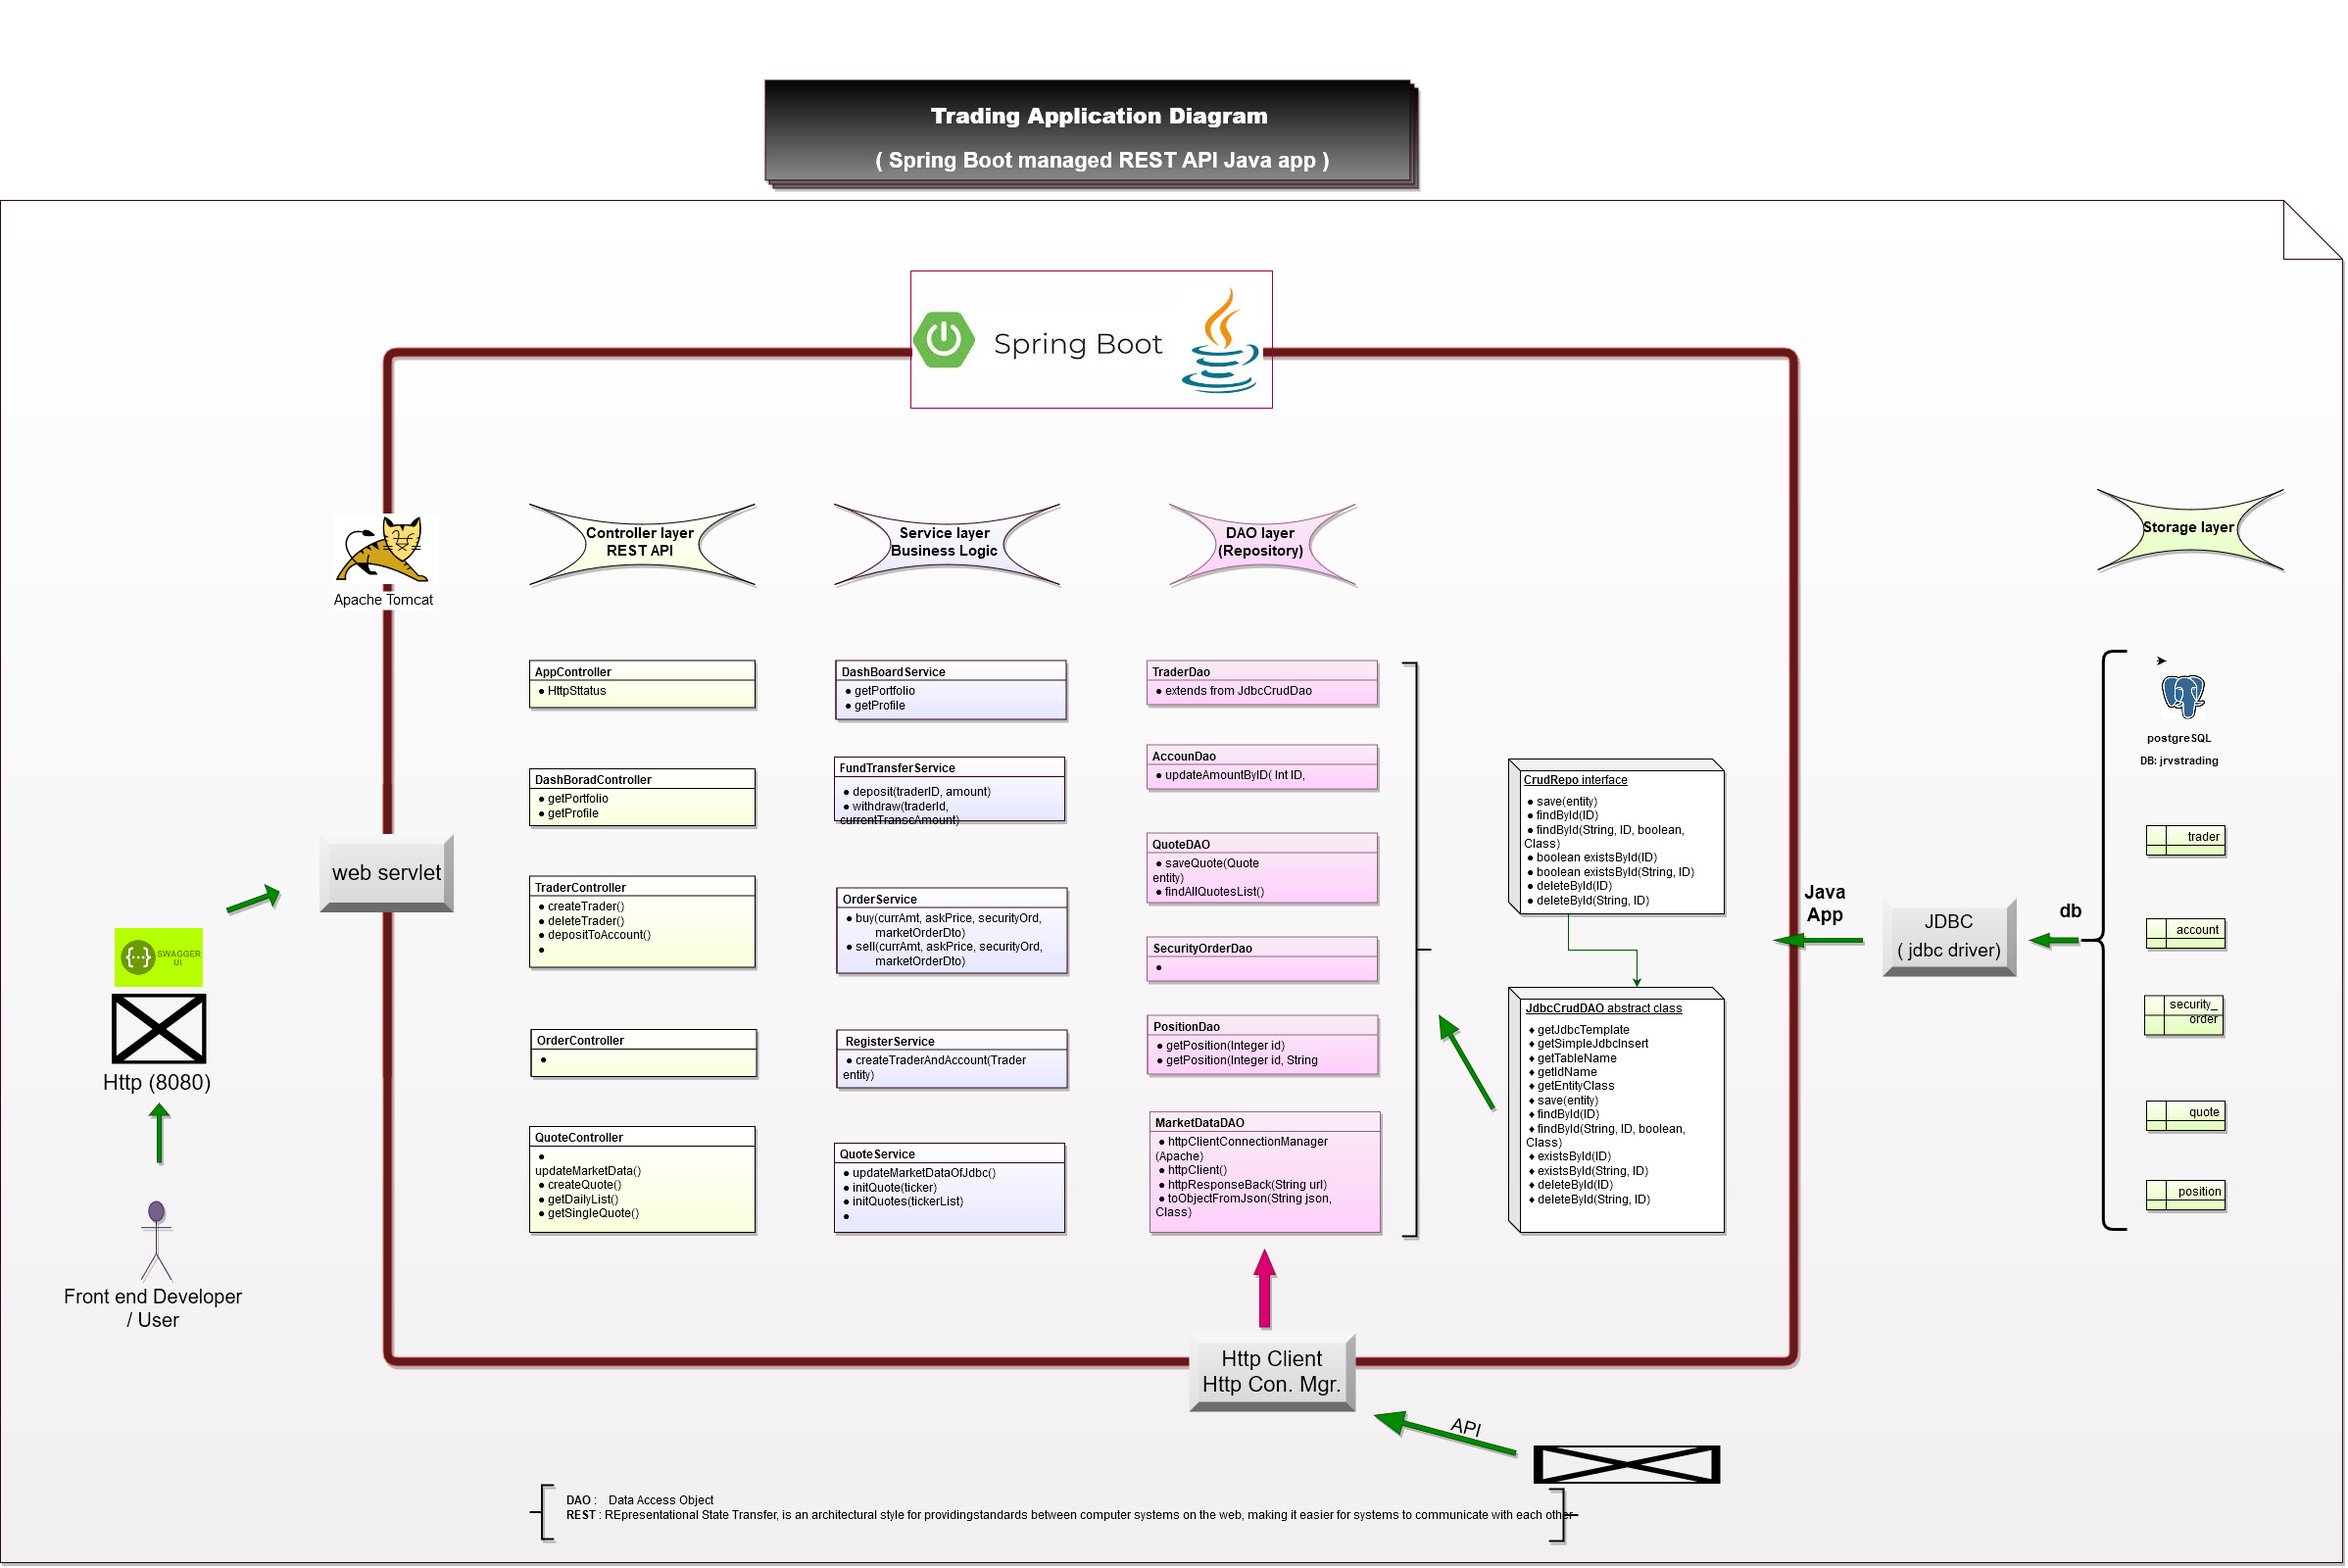
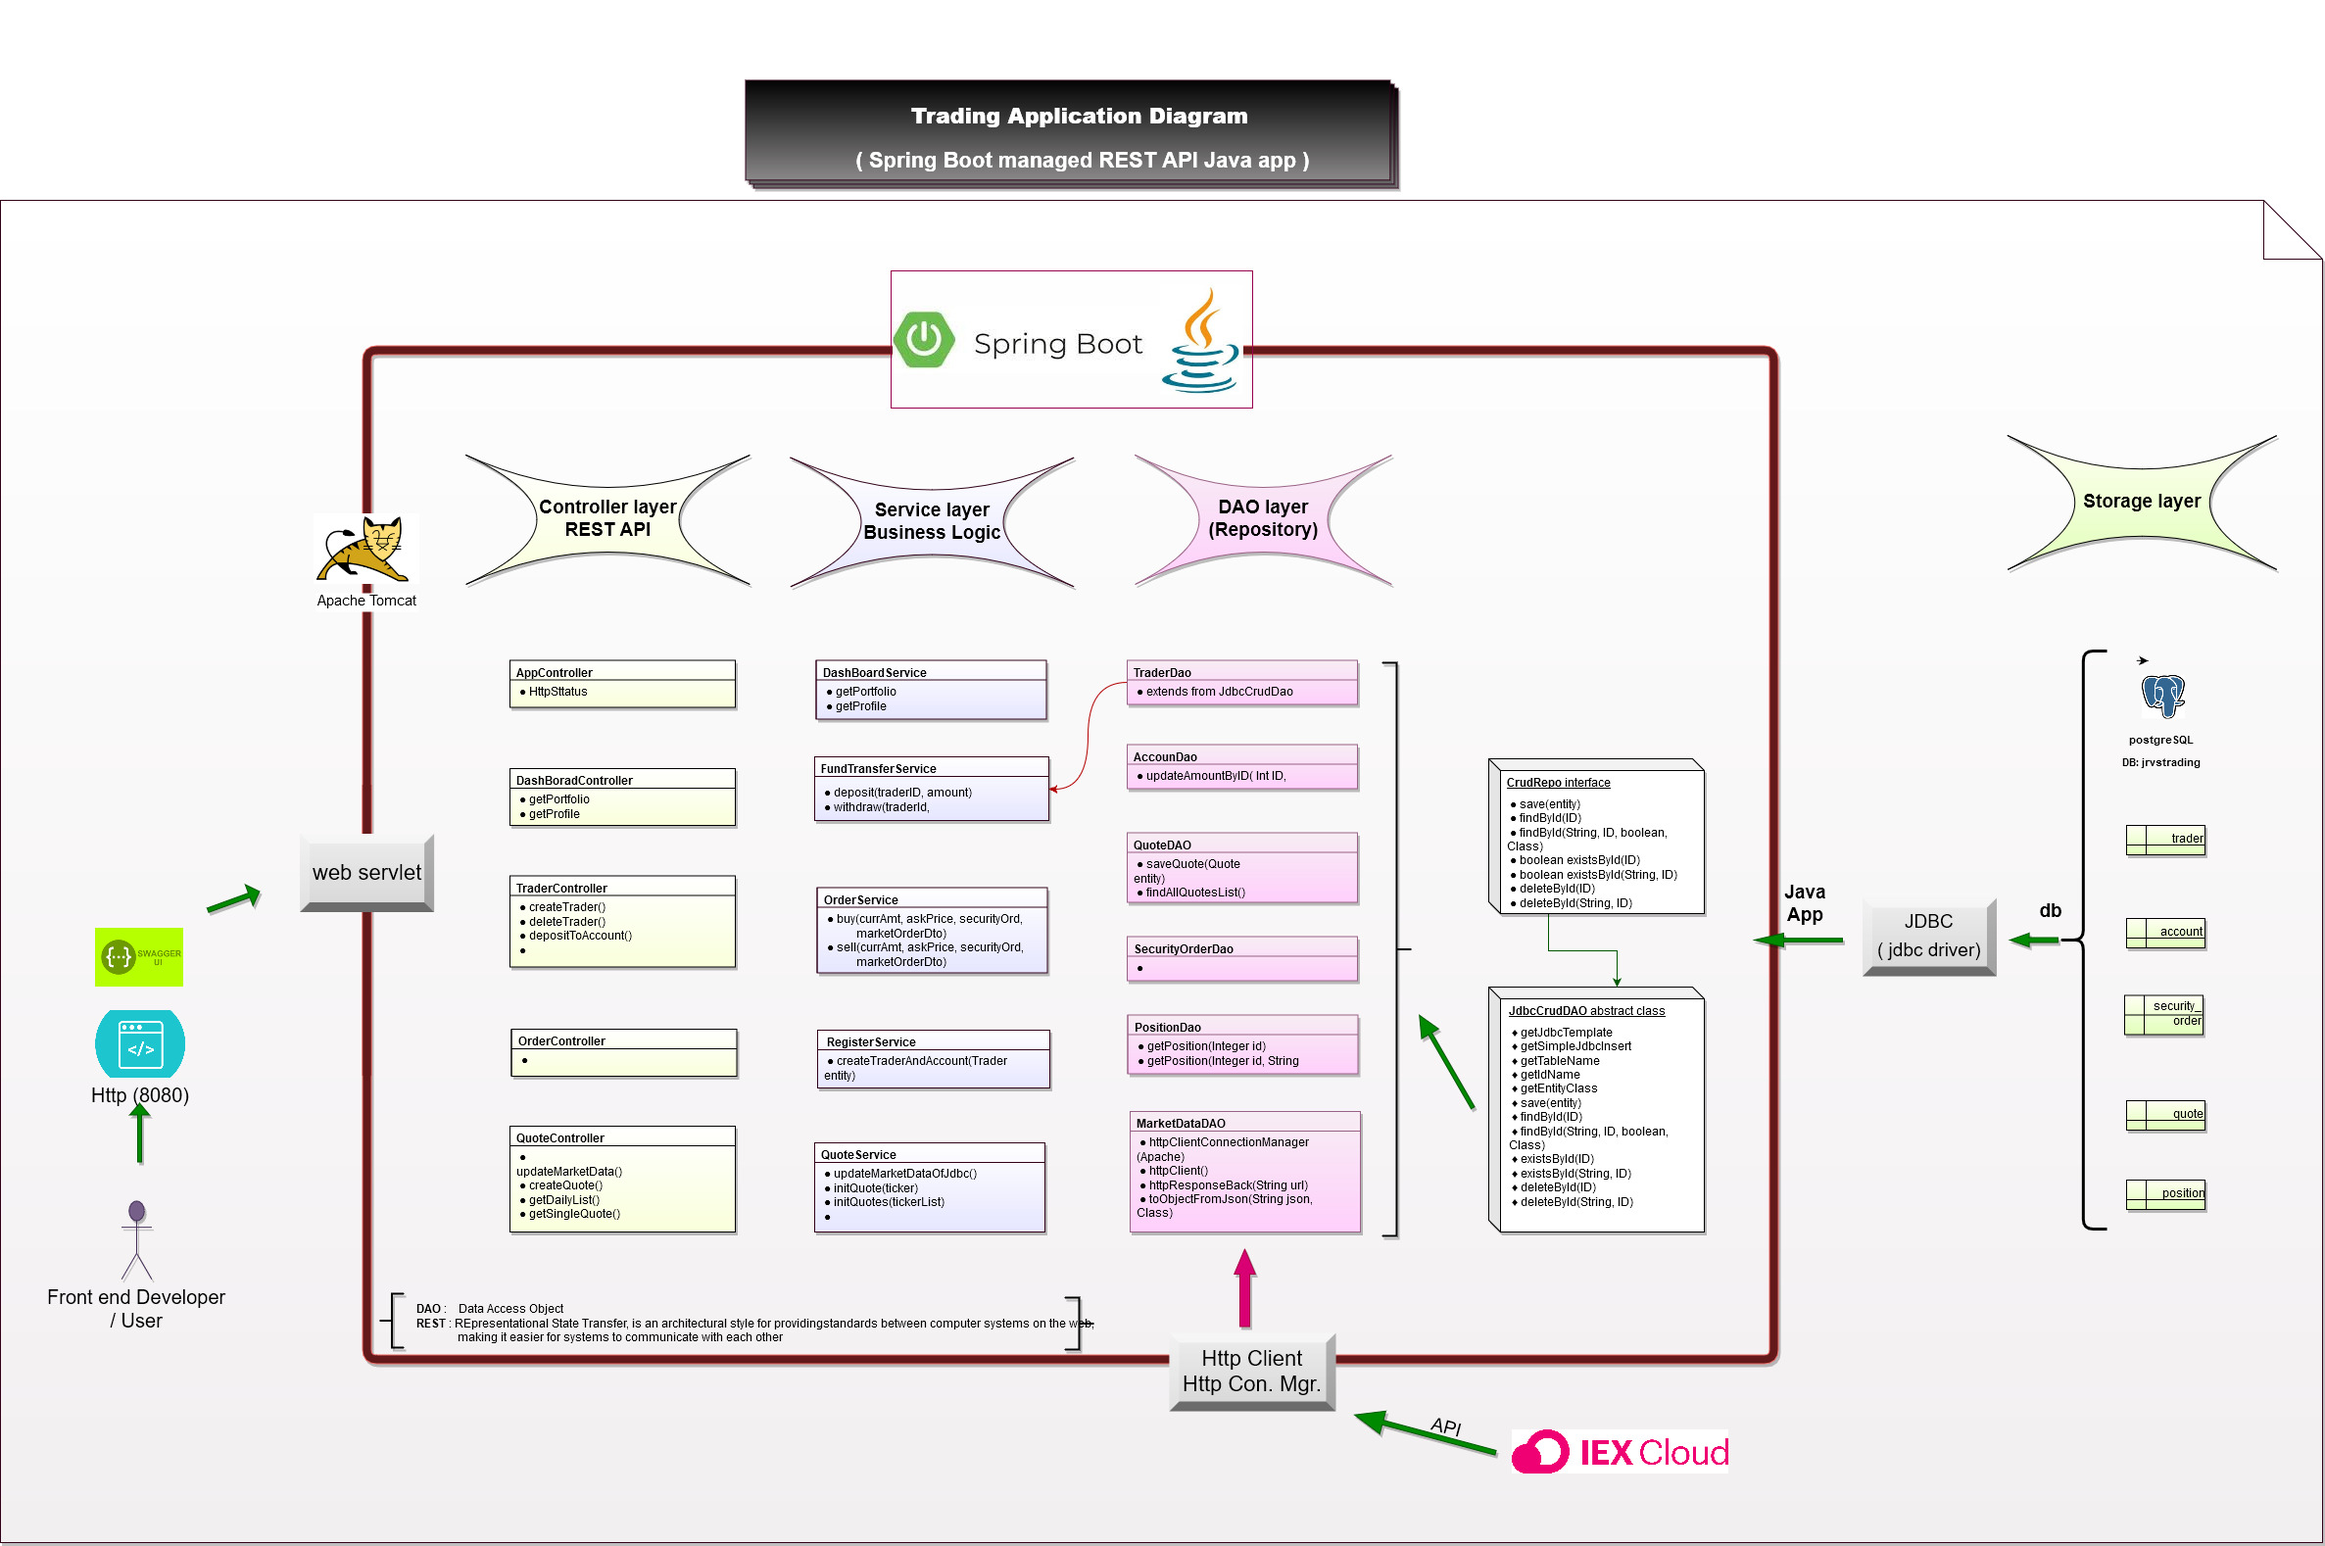
updated readme

diff --git a/README.md b/README.md
@@ -5,14 +5,10 @@
 
    - This trading REST API SpingBoot Java app is built using micro-services. The SpingBoot handles internal dependencies for the app here. The app is used to find store stock prices from live/offline market and do trade within account and also buy buy stocks.
     - The user can save its stock data with the account and obtain later market quote in future for its portfolio. The account has some basic features to deposit-withdraw funds, create-delete account functions.
-    - The data is obtained by IEX plateform and user need to create an account on the webpage[https://iextrading.com/] and obtain the key to paste it in the environment variable within the app.
+    - The data is obtained by IEX plateform and user need to create an account on the [webpage](https://iextrading.com/) and obtain the key to paste it in the environment variable within the app.
     - To consume Trading REST API we created, use Postman or Swagger v2 webpage(port 80, can be accessible by Http request-webpage-browser/cell)
     -  Ultimately Frontend developers will be able to consume these API via UI efficiently. API specifications using `http://localhost:8080/v2/api-docs`
-    - Swagger UI will look like:
 
-
-
->>>>> FIGURE...#1
 
     
 ## Quick Start
@@ -29,7 +25,8 @@
 ## Architecture Diagram:
 - The application has several layers within app and it implements Apache Tomcat servlet that handles server management request for us. For the database storage in the back-end PostgreSQL is used via port 5432.
 
->>>>>>> FIGURE#2
+FIGURE#2
+![trading](https://raw.githubusercontent.com/sumitJRVS/Trading_app/master/diagram/trading.jpg)
 
 
 ### [Layers]
@@ -61,7 +58,6 @@
 -   POST `/quote/ticker/{ticker}` - Adds a new ticker to the Quote database
 -   PUT  `/quote/iexMarketData'` - Updates all quotes with live market data from IEX
 
-> >>>PUT  `/quote/` - Allows user to manually update an individual quotes's Quote data in database
 
 ## Trader Controller
  - **High-level summary**: this layer implements trader account generation, deletion, update fund by deposit or withdraw functions.
@@ -76,15 +72,24 @@
 ## Order Controller
 
  - **High-level summary**: this layer implements the function for trader to performs buy/sell stocks (upon conditions verification).
-POST`/order/marketOrder` - Buy or sell stock
+ 
+ **End point**
+- POST`/order/marketOrder` - Buy or sell stock
  
 ## App controller
 - **High-level summary**: this layer has no practical functionality except testing app's health (eg. port, url, local environment working correctly or not?)
--  GET `/health` to verify the SpringBoot app's health, make sure is up and running?
 
-> >>>>## Optional(Dashboard controller)
-> >>>>Uploading before :10-Aug-2019 10:00 AM
+ **End point**
+- GET `/health` to verify the SpringBoot app's health, make sure is up and running?
 
+## Dashboard controller
+- **High-level summary**: this layer has 2 functions:
+	1. getPortfolio returns the PortfolioView.
+	2. getProfile method returns the trader's TraderAccountView.
+
+ **End point**
+- GET `/portfolio/traderId/{traderId}`
+- GET `/profile/traderId/{traderId}`
 
 
 ## Startup steps (how to):
@@ -181,7 +186,5 @@ Loginto swagger browser using
 6. Bugfix in `TraderDAO.java` and `Trader.java` pojo solved for the date(D.O.B.) to string casting.
 
 -------------------
-
-
 
 
